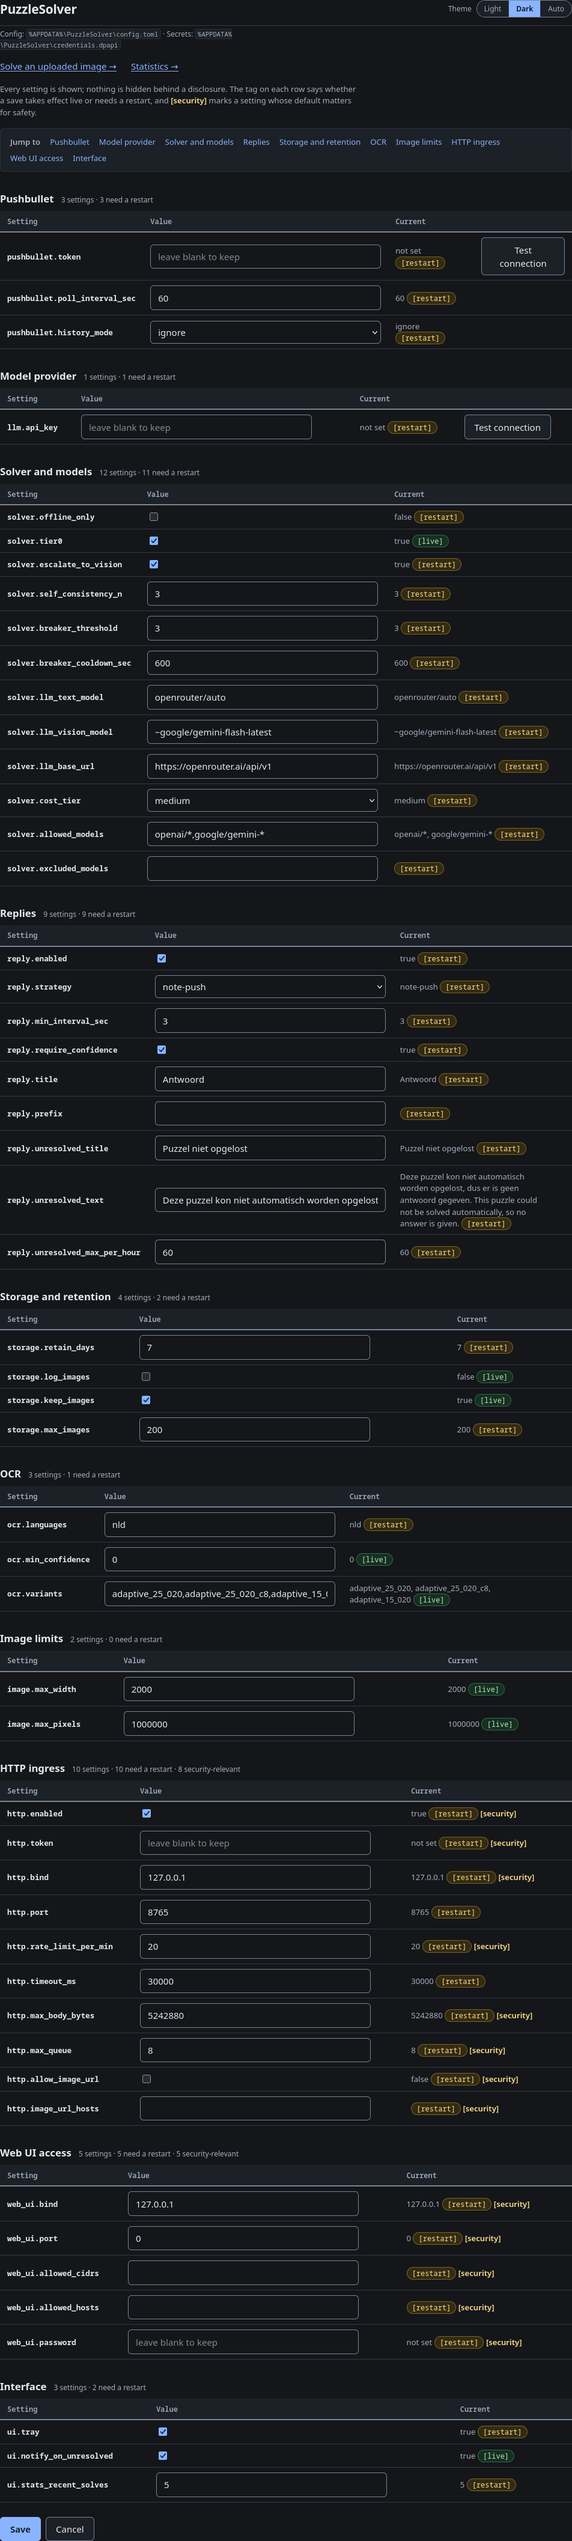
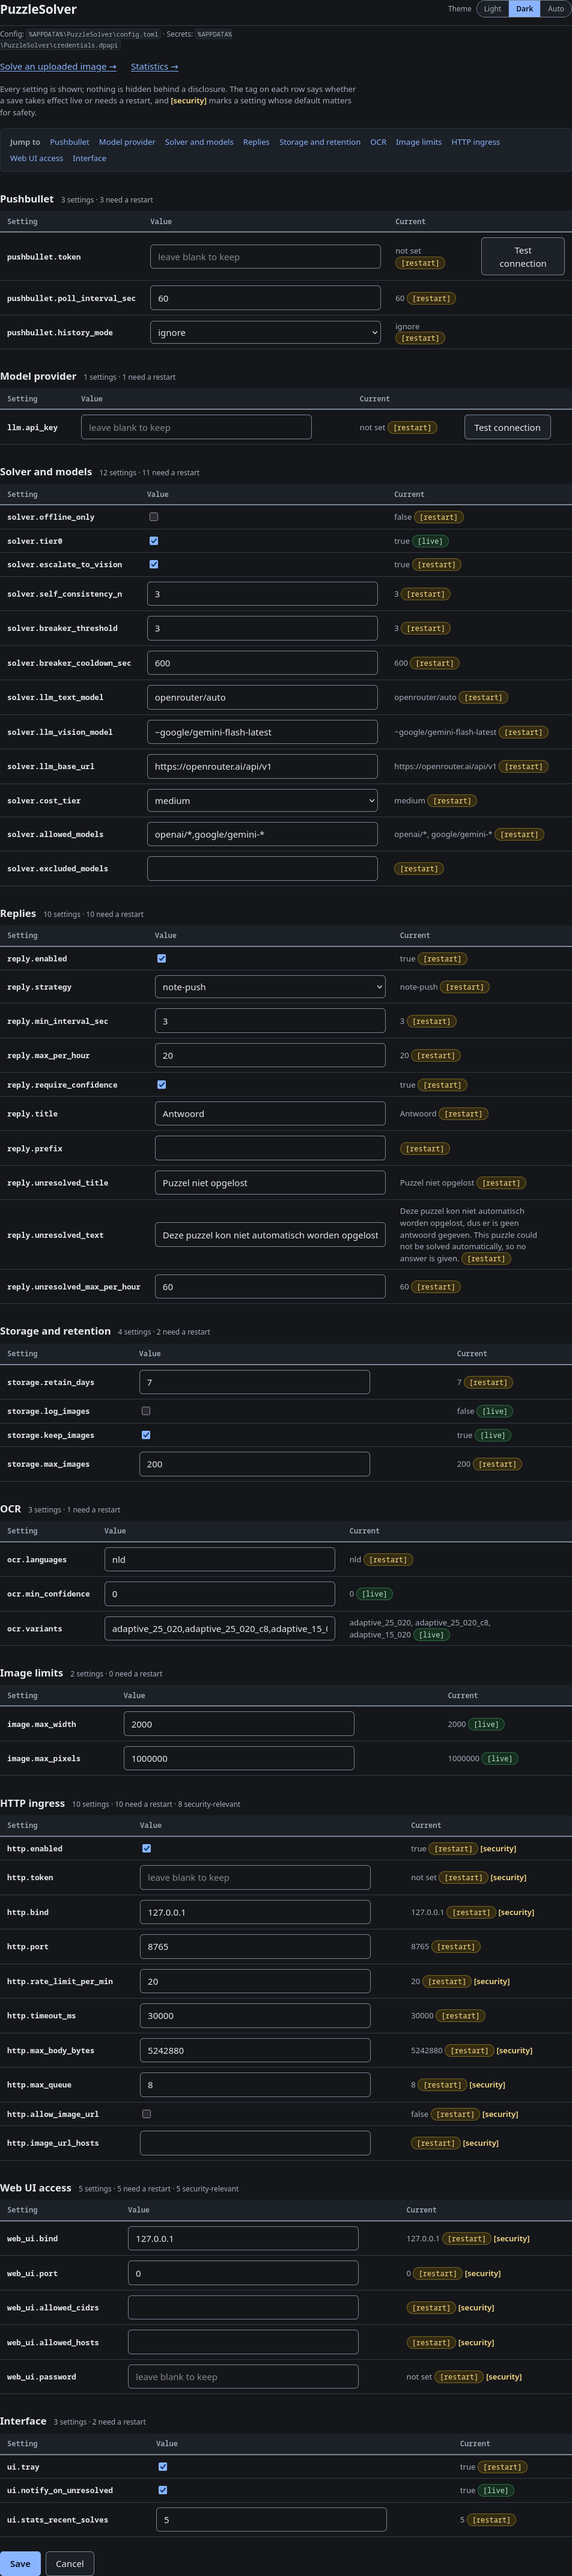
docs: regenerate the screenshots, embed both dark captures, reconcile the corpus counts (#148, #149, #151)
v0.45 documentation review findings #148, #149 and #151.

#148: SETTINGS gained reply.max_per_hour (#133) after the settings captures were
last committed, so settings.png / settings-dark.png were stale. Regenerated every
screenshot with `npm run screenshots` (exits 0, run twice: only solve.png differs on
the second run, as documented). Updated the byte total in docs/screenshots/README.md
to the measured 1,191,000 bytes and noted that solve.png makes the exact total drift.

#149: the directory README claimed the images are embedded in the top-level README,
which embeds none of them. It now names the docs pages that do. statistics-dark.png
was embedded nowhere, so it is now shown in docs/statistics-page.md next to its light
twin -- the dark theme is a real feature and settings-dark.png is already shown the
same way. Added a guard test: every committed screenshot must be the target of a
Markdown image somewhere.

#151: the README accounted for 281 synthetic + 3 real of 287 and omitted the 3
derived items; it now names all three provenances.

Refs #148, #149, #151 (Closes does not fire against a non-default branch).

diff --git a/tests/screenshots-fixture.test.js b/tests/screenshots-fixture.test.js
@@ -1,5 +1,6 @@
 /**
- * The screenshot fixture is a pure function of a fixed clock (issue #114).
+ * The screenshot fixture is a pure function of a fixed clock (issue #114), and every
+ * committed screenshot is displayed somewhere (issue #149).
  *
  * The capture itself needs Firefox, so it cannot run in CI. The reproducibility property
  * lives entirely in the fixture, though: its timestamps are ours, so they must come from a
@@ -10,6 +11,8 @@
  */
 import { test } from 'node:test';
 import assert from 'node:assert/strict';
+import { readdirSync, readFileSync } from 'node:fs';
+import { dirname, join, resolve } from 'node:path';
 
 import { buildHistory, FIXTURE_NOW } from '../scripts/screenshot-fixture.mjs';
 
@@ -59,4 +62,63 @@ test('the fixture carries nothing real', () => {
     assert.match(subject, /^demo\//, `fixture subject ${subject} is not a demo name`);
     assert.doesNotMatch(subject, /@/, `fixture subject ${subject} looks like a real ident`);
   }
+});
+
+const repoRoot = join(import.meta.dirname, '..');
+const screenshotsDir = join(repoRoot, 'docs', 'screenshots');
+// The directory's own README names every file in its table; an embed there would make this
+// guard vacuous, so it is not a valid consumer.
+const screenshotsReadme = resolve(screenshotsDir, 'README.md');
+
+/** Every `.md` file under the repository, minus dependencies and VCS metadata. */
+function markdownFiles(dir) {
+  const found = [];
+  for (const entry of readdirSync(dir, { withFileTypes: true })) {
+    if (entry.name === 'node_modules' || entry.name === '.git') continue;
+    const full = join(dir, entry.name);
+    if (entry.isDirectory()) found.push(...markdownFiles(full));
+    else if (entry.isFile() && entry.name.endsWith('.md')) found.push(full);
+  }
+  return found;
+}
+
+/**
+ * Every committed screenshot is embedded somewhere (issue #149).
+ *
+ * A screenshot nobody displays costs repository weight and regeneration time for nothing.
+ * `statistics-dark.png` was committed, regenerated and shown on no page at all until this
+ * guard, and the directory README pointed at the top-level README that embeds none of the
+ * six. The check is mechanical: parse the Markdown image syntax across the repository's
+ * `.md` files and require each `docs/screenshots/*.png` to be the target of at least one.
+ * A prose mention (DESIGN.md naming `solve.png`) is deliberately not enough - only an
+ * `<img>` puts the picture in front of a reader.
+ *
+ * WHAT THIS GUARD IS NOT. It proves an image has a reader, not that the image is current:
+ * only regenerating against the live UI can tell whether it is stale, and that needs a
+ * browser, which `npm test` deliberately does not have. A green run means the image is
+ * displayed, not that it is true.
+ */
+test('every committed screenshot is embedded as an image somewhere', () => {
+  const shots = readdirSync(screenshotsDir)
+    .filter((name) => name.endsWith('.png'))
+    .map((name) => ({ name, path: join(screenshotsDir, name) }));
+  assert.ok(shots.length > 0, 'docs/screenshots/ has no PNGs; the test has lost its subject');
+
+  const referenced = new Set();
+  for (const file of markdownFiles(repoRoot)) {
+    if (resolve(file) === screenshotsReadme) continue;
+    const text = readFileSync(file, 'utf8');
+    for (const match of text.matchAll(/!\[[^\]]*\]\(([^)\s]+)[^)]*\)/g)) {
+      const target = match[1].replace(/^<|>$/g, '');
+      if (/^(https?:|data:)/i.test(target)) continue;
+      referenced.add(resolve(dirname(file), target));
+    }
+  }
+
+  const missing = shots.filter((shot) => !referenced.has(resolve(shot.path))).map((shot) => shot.name);
+  assert.deepEqual(
+    missing,
+    [],
+    `these committed screenshots are embedded in no .md file: ${missing.join(', ')}. Embed each in the docs page that describes its mode, or remove it from the repository.`
+  );
 });

diff --git a/docs/screenshots/README.md b/docs/screenshots/README.md
@@ -1,8 +1,13 @@
-# README screenshots
+# Screenshots
 
-The images in this directory are embedded in the top-level [`README.md`](../../README.md).
-They show the loopback web UI, which is otherwise invisible until someone installs and
-runs the app.
+The images in this directory document the loopback web UI, which is otherwise invisible
+until someone installs and runs the app. They are embedded in the [`docs/`](../) pages
+that describe each mode: the settings captures (light and dark) in
+[`configuration.md`](../configuration.md), the sign-in page in
+[`remote-access.md`](../remote-access.md), the solve page in
+[`solve-page.md`](../solve-page.md), and both statistics captures in
+[`statistics-page.md`](../statistics-page.md). The top-level
+[`README.md`](../../README.md) embeds none of them; it links here.
 
 | File | Page it shows |
 |---|---|
@@ -118,8 +123,10 @@ list in `src/ui/settings.js` — **re-run `npm run screenshots` and commit the r
 A reviewer should open the changed images before merging, because there is no automated
 guard: a browser is deliberately absent from the offline suite.
 
-Current cost in the repository: six PNGs, about **1.1 MiB** (1,181,827 bytes) total (the
-two settings captures are the largest at roughly 355 KiB each; the topic grouping added height rather
-than width). They are committed as PNGs because the
-UI is text and flat colour, which compresses well; keep them under ~500 KiB each by
-adjusting `CAPTURE_WIDTH` in `scripts/screenshots.mjs` rather than by lowering quality.
+Current cost in the repository: six PNGs, about **1.14 MiB** (1,191,000 bytes) total
+(the two settings captures are the largest, at roughly 356 KiB and 358 KiB; the topic
+grouping added height rather than width). The exact total moves by a few dozen bytes on
+any regeneration, because `solve.png` records that run's real duration. They are
+committed as PNGs because the UI is text and flat colour, which compresses well; keep
+them under ~500 KiB each by adjusting `CAPTURE_WIDTH` in `scripts/screenshots.mjs`
+rather than by lowering quality.

diff --git a/README.md b/README.md
@@ -390,10 +390,12 @@ folders. Manually: `schtasks /Delete /TN PuzzleSolver /F`, then delete
   `node src/cli.js config edit`) remains the terminal editor for a headless machine.
 - **Synthetic accuracy is not real accuracy.** Of the 287 corpus items, 281 are
   **synthetic** images and text from our own generator — which refuses to write an image
-  the pipeline cannot read — so the synthetic figure is a **regression guard, not
-  real-world accuracy**. The only real evidence is 3/3 on the three real images. Run
-  `node src/cli.js accuracy` (or `npm run accuracy`) and read the provenance breakdown;
-  the measured detail is in [DESIGN.md](./DESIGN.md) §10.
+  the pipeline cannot read — 3 are real images, and 3 more are noisy transcripts derived
+  from those same three images, so the synthetic figure is a **regression guard, not
+  real-world accuracy** and the derived items are not independent evidence. The only real
+  evidence is 3/3 on the three real images. Run `node src/cli.js accuracy` (or
+  `npm run accuracy`) and read the provenance breakdown; the measured detail is in
+  [DESIGN.md](./DESIGN.md) §10.
 - **No form typing, no image grids.** It reads an image and replies; it does not act in
   a browser.
 

diff --git a/docs/statistics-page.md b/docs/statistics-page.md
@@ -14,5 +14,7 @@ blended; the corpus is called a regression guard, not real-world accuracy.
 
 ![The statistics page: recent solves each carrying a shaped solved / withheld / unresolved verdict with answer, method, sent-or-withheld reason and took, then recorded-traffic totals by tier and puzzle class, then a separate offline-corpus section whose empty state says no report is cached.](./screenshots/statistics.png)
 
+![The same statistics page in the explicit dark theme, with a Light / Dark / Auto toggle in the header.](./screenshots/statistics-dark.png)
+
 The page is reached through the web UI described in the [README](../README.md#the-web-ui)
 and in [Exposing the web UI beyond loopback](./remote-access.md).

diff --git a/AGENTS.md b/AGENTS.md
@@ -232,7 +232,7 @@ the old code. Behaviour that took live testing to find must not be able to come 
 ## 5. Tests
 
 ```bash
-npm test              # 815 tests (809 pass, 6 skip), fully offline: no network, no token, no key
+npm test              # 816 tests (810 pass, 6 skip), fully offline: no network, no token, no key
 npm run test:unit     # fast subset
 npm run test:corpus   # real images through real OCR, ~4s
 npm run test:live     # opt-in; skips itself unless LLM_API_KEY is set
